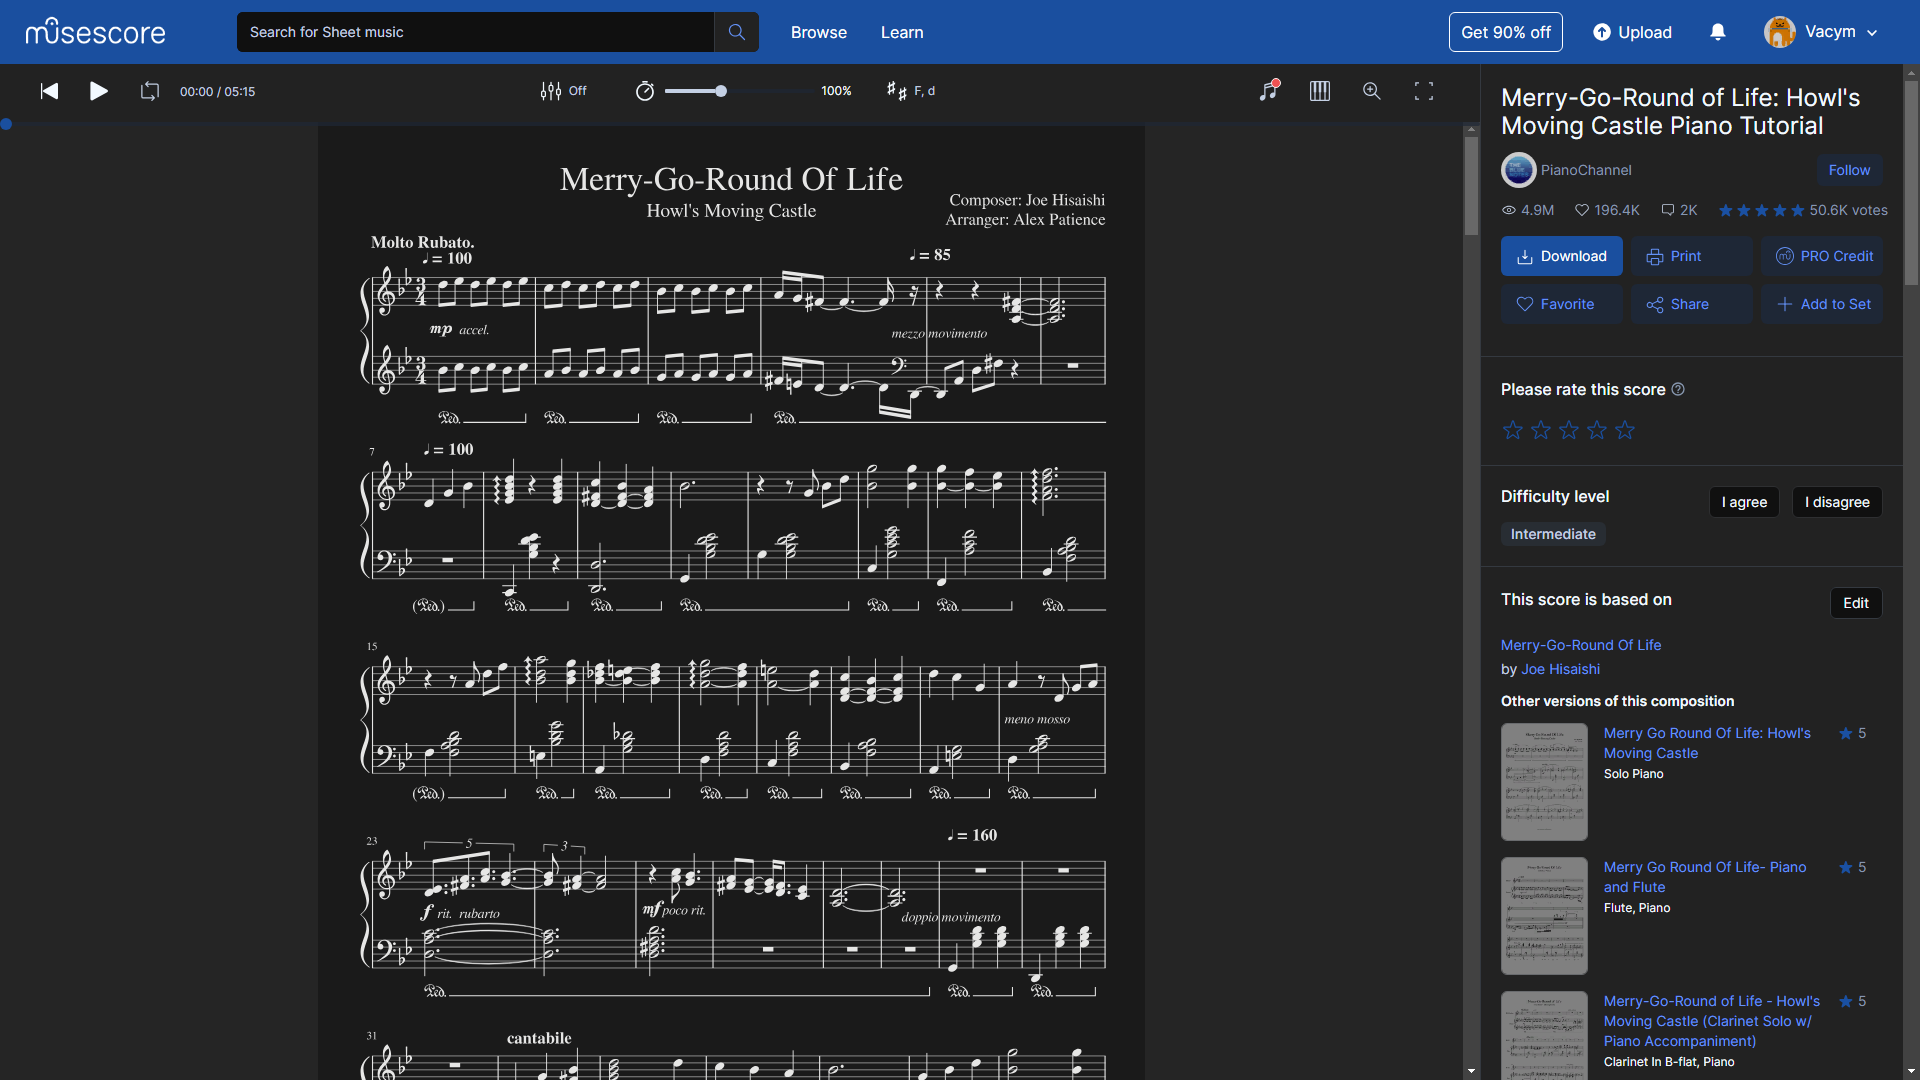
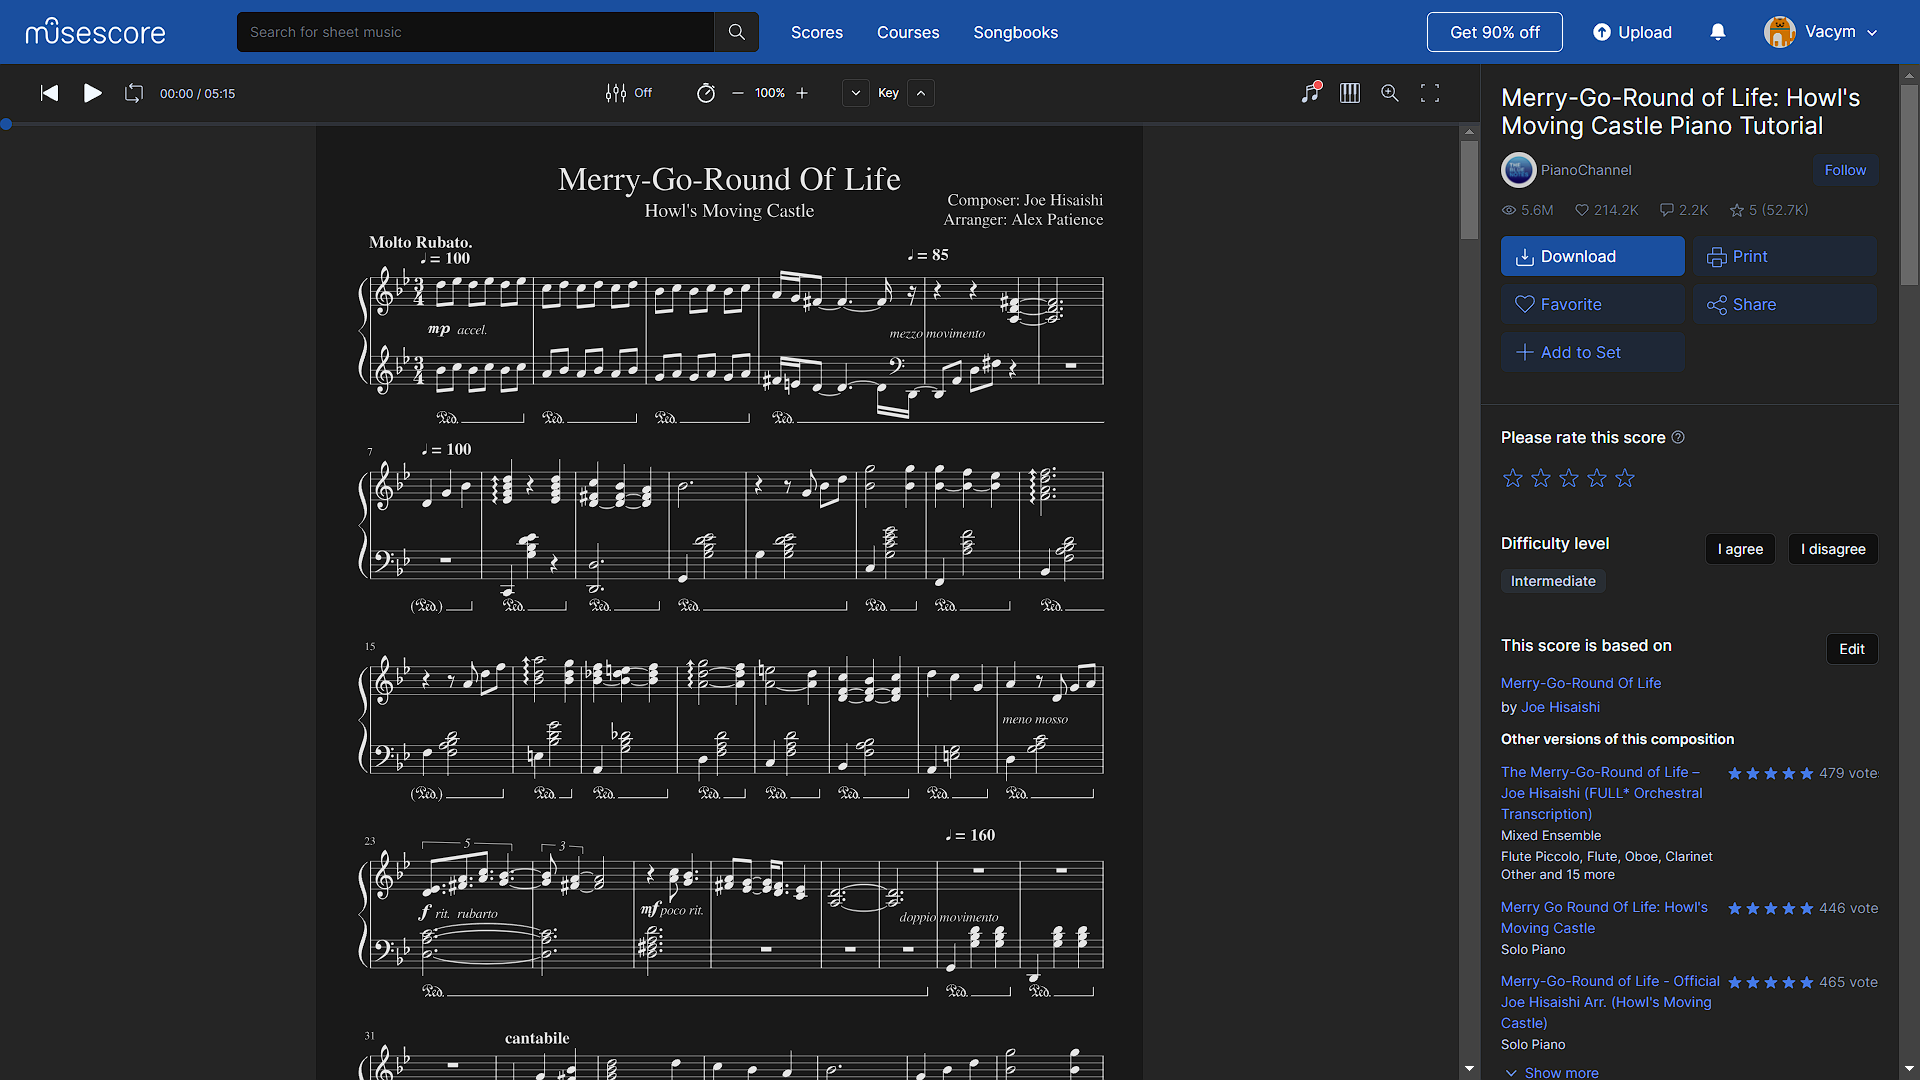
Add transparent button
Also fix fullscreen and modify group comment input

diff --git a/main.user.less b/main.user.less
@@ -1,7 +1,7 @@
 /* ==UserStyle==text
 @name           Musescore dark
 @namespace      https://github.com/Vacym
-@version        1.1.9
+@version        1.2.0
 @description    Dark theme for musescore.com with score inverting and customizable colors
 @author         Vacym
 @license        MIT
@@ -260,7 +260,8 @@
   }
 
   /* high contrast text */
-  .J8pNU {
+  .J8pNU,
+  .XhWTP {
     color: @opposite;
   }
 
@@ -318,6 +319,7 @@
   .GxpAQ,
   .PWGaj,
   .a_IJV,
+  .MuxLs,
   .PriGL > a,
   .cuYtG.O9yD2,
   .RsovW.TQzQH {
@@ -413,6 +415,13 @@
 
   .plVkZ.nIsQu svg path {
     fill: currentColor;
+  }
+
+  /* transparent buttons */
+  .Tf9QF .mMxym {
+    background-color: transparent;
+    color: @text-main;
+    border-color: fade(@text-main, 10.2%);
   }
 
   /* other buttons */
@@ -1471,6 +1480,26 @@
     color: @link;
   }
 
+  /* broken comment */
+  .JPrRu {
+    button {
+      width: 30px;
+      height: 30px;
+      margin-right: 2px;
+
+      background-color: @gray-faint;
+      border-radius: 5px;
+
+      svg > path {
+        fill: @gray-medium;
+      }
+    }
+
+    div[role="textbox"] {
+      margin: 10px;
+    }
+  }
+
   /* sent comment */
   .QHTNx {
     background-color: @accent;
@@ -1741,5 +1770,11 @@
 
 @-moz-document domain("musescore.com") {
   /* Fixes */
-  /* no fixes now */
+
+  /* fullscreen */
+  @media (orientation: landscape) {
+    .YKX96 {
+      height: 100%;
+    }
+  }
 }
